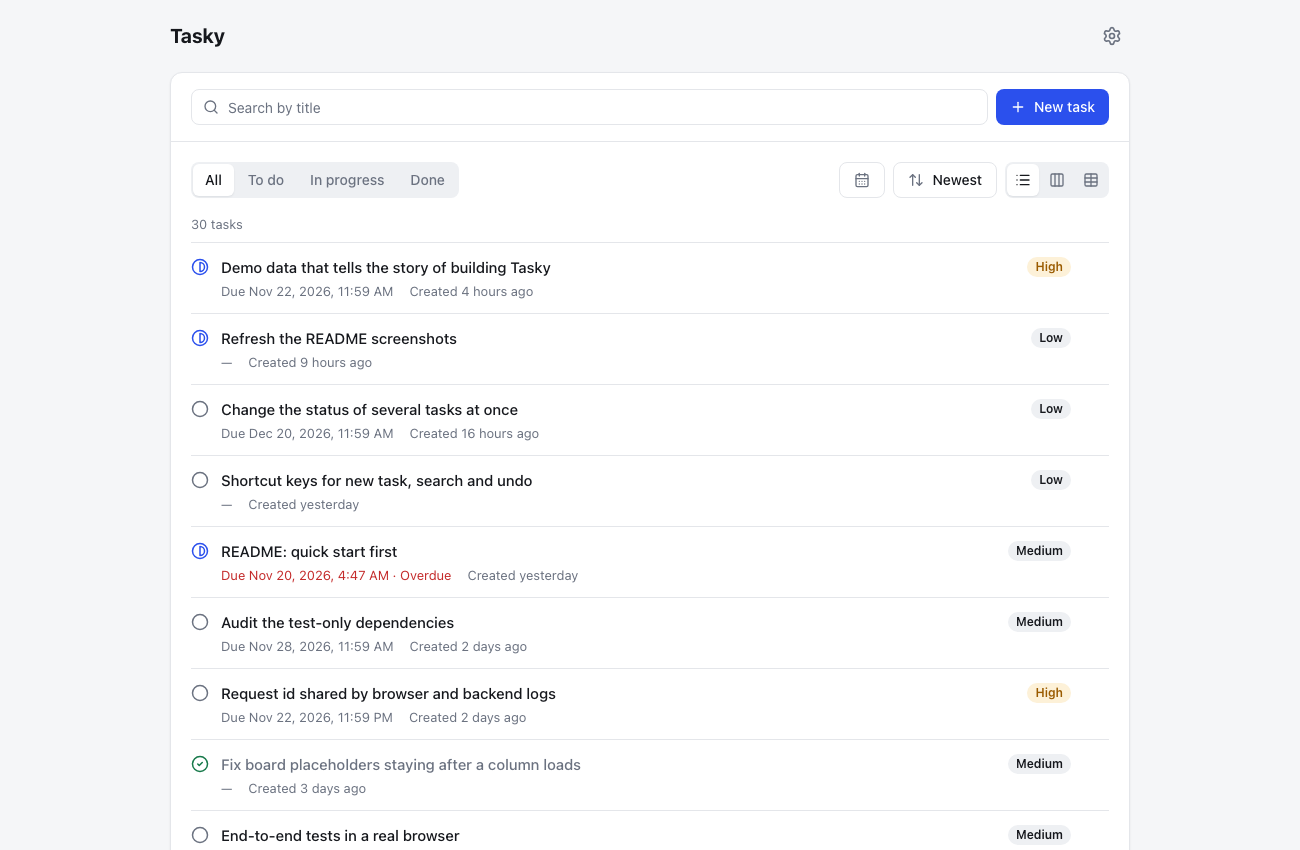
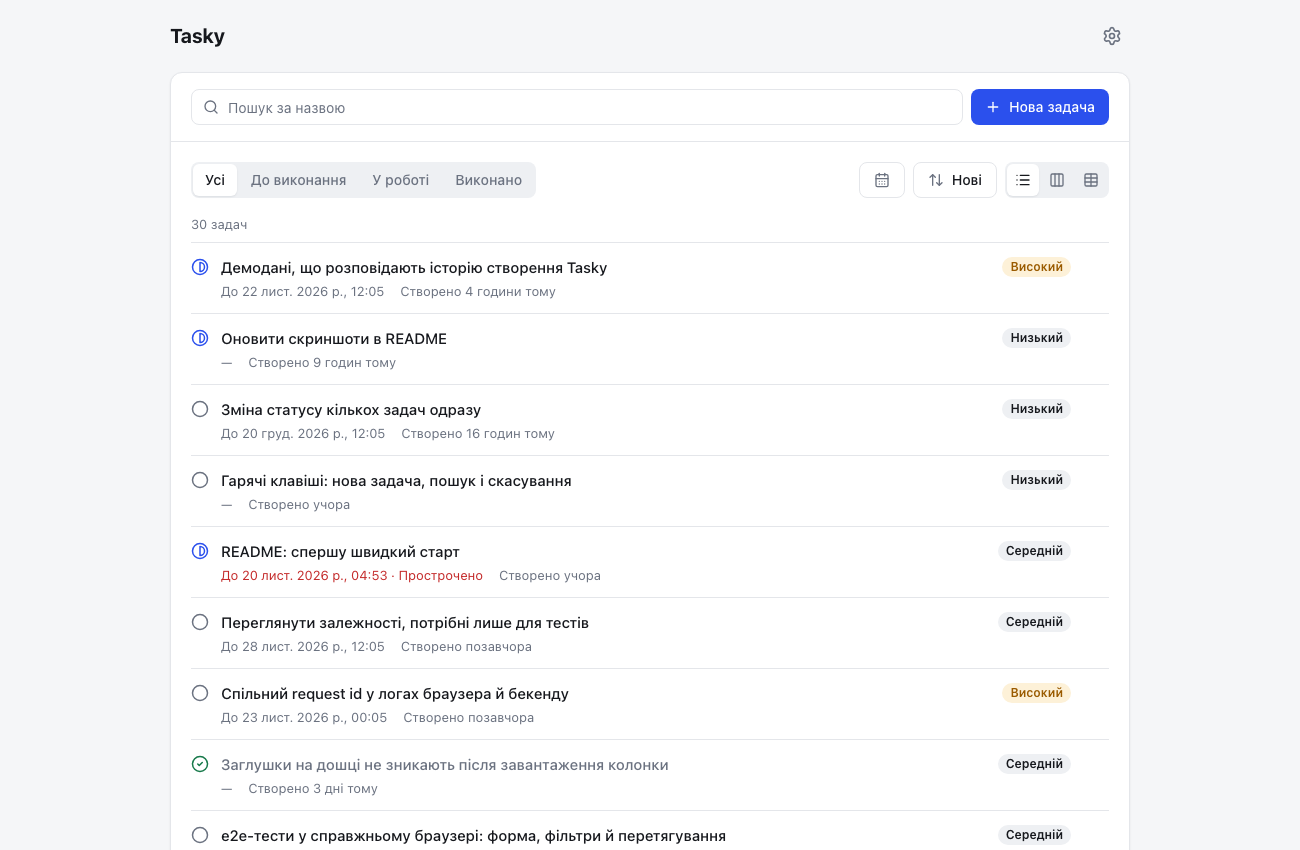
Demo data in Ukrainian: the same 30 tasks from the project's history, with the same statuses, priorities, deadlines, creation dates, board order and missing descriptions, titled and described the way a Ukrainian developer writes issues; five titles mention filters, so «фільтр» is now the search exam

diff --git a/backend/app/services/demo_seed.py b/backend/app/services/demo_seed.py
@@ -1,10 +1,10 @@
-"""Demo tasks for a fresh install: the story of building Tasky itself.
+"""Demo tasks for a fresh install, in Ukrainian: the story of building Tasky itself.
 
 The shipped work of the backend and frontend milestones is done, the current work is in
 progress and a few plausible next steps are to do. Deadlines are overdue, due within a few
 days, further out or missing; creation dates follow the order the work happened over the last
-three weeks. Five titles share the word "board" so a search finds more than one. All dates are
-relative to the seed time.
+three weeks. Five titles mention filters («фільтр», «фільтри») so a search for «фільтр» finds
+more than one. All dates are relative to the seed time.
 """
 
 import logging
@@ -45,172 +45,173 @@ def _days(days: float) -> timedelta:
 DEMO_TASKS: tuple[DemoTask, ...] = (
     # In progress
     DemoTask(
-        "Refactor: shared task title and deadline pieces",
-        "Pull the title, deadline badge, form submit and task actions out of the list, board "
-        "and table components, so the three views stop drifting apart.",
+        "Рефакторинг: спільні компоненти назви й дедлайну задачі",
+        "Винести назву, бейдж дедлайну, збереження форми й дії із задачею зі списку, дошки "
+        "й таблиці, щоб три вигляди не розходилися.",
         IN_PROGRESS, HIGH, _days(6.6), _days(1.5),
     ),
     DemoTask(
-        "Demo data that tells the story of building Tasky",
-        "Replace the placeholder seed with the project's own work items, so a fresh install "
-        "reads like a real board.",
+        "Демодані, що розповідають історію створення Tasky",
+        "Замінити заглушки в демоданих справжніми задачами проєкту, щоб після чистого "
+        "встановлення дошка виглядала живою.",
         IN_PROGRESS, HIGH, _days(0.2), _days(2),
     ),
     DemoTask(
-        "README: quick start first",
-        "Clone and one command at the top; configuration, development and the API reference "
-        "below it.",
+        "README: спершу швидкий старт",
+        "Угорі клонування й одна команда; конфігурація, розробка й довідник API нижче.",
         IN_PROGRESS, MEDIUM, _days(1.6), _days(-0.3),
     ),
     DemoTask(
-        "Refresh the README screenshots",
+        "Оновити скриншоти в README",
         None,
         IN_PROGRESS, LOW, _days(0.4), None,
     ),
     # To do
     DemoTask(
-        "CI: frontend check and backend tests on every pull request",
-        "GitHub Actions running `npm run check` and the backend suite against PostgreSQL, "
-        "required before merge.",
+        "CI: перевірка фронтенду й тести бекенду на кожен pull request",
+        "GitHub Actions запускає `npm run check` і тести бекенду на PostgreSQL; без зеленого "
+        "прогону злиття заблоковане.",
         TODO, HIGH, _days(8.1), _days(-2),
     ),
     DemoTask(
-        "Request id shared by browser and backend logs",
-        "Send an X-Request-ID from the client and log it on both sides, so one failed save "
-        "can be followed end to end.",
+        "Спільний request id у логах браузера й бекенду",
+        "Клієнт надсилає X-Request-ID, і обидві сторони пишуть його в логи, тож одне невдале "
+        "збереження можна простежити від початку до кінця.",
         TODO, HIGH, _days(2.8), _days(2.5),
     ),
     DemoTask(
-        "Rebalance positions when custom order gaps run out",
-        "Dragging between the same two tasks halves the gap each time; renumber the column "
-        "before floats lose precision.",
+        "Перенумерація позицій, коли у власному порядку закінчуються проміжки",
+        "Кожне перетягування між тими самими двома задачами вдвічі зменшує проміжок; колонку "
+        "треба перенумерувати, поки float не втратив точність.",
         TODO, MEDIUM, _days(5.2), _days(-1),
     ),
     DemoTask(
-        "Audit the test-only dependencies",
-        "Check what the frontend and backend dev dependencies pull in and drop what the "
-        "suites no longer use.",
+        "Переглянути залежності, потрібні лише для тестів",
+        "Перевірити, що тягнуть за собою dev-залежності фронтенду й бекенду, і прибрати те, "
+        "чим тести вже не користуються.",
         TODO, MEDIUM, _days(2.1), _days(8),
     ),
     DemoTask(
-        "End-to-end tests in a real browser",
-        "A few Playwright runs against the Compose stack: create, edit, filter and drag a task.",
+        "e2e-тести у справжньому браузері: форма, фільтри й перетягування",
+        "Кілька прогонів Playwright на стеку Compose: створити, відредагувати, відфільтрувати "
+        "й перетягнути задачу.",
         TODO, MEDIUM, _days(3.9), _days(14),
     ),
     DemoTask(
-        "Shortcut keys for new task, search and undo",
-        "N opens the form, / focuses the search, Ctrl+Z undoes the last change.",
+        "Гарячі клавіші: нова задача, пошук і скасування",
+        "N відкриває форму, / ставить курсор у пошук, Ctrl+Z скасовує останню зміну.",
         TODO, LOW, _days(1.1), None,
     ),
     DemoTask(
-        "Change the status of several tasks at once",
+        "Зміна статусу кількох задач одразу",
         None,
         TODO, LOW, _days(0.7), _days(30),
     ),
     # Done, latest first
     DemoTask(
-        "Fix board placeholders staying after a column loads",
-        "The loading cards sat inside the cards' transition group, and their pulse animation "
-        "kept the leave transition from ever finishing.",
+        "Заглушки на дошці не зникають після завантаження колонки",
+        "Картки-заглушки сиділи всередині transition group карток, і їхня pulse-анімація не "
+        "давала leave-переходу завершитися.",
         DONE, MEDIUM, _days(3.4), None,
     ),
     DemoTask(
-        "Change priority from the list, board and table",
-        "A priority menu on every task, in all three views.",
+        "Зміна пріоритету зі списку, дошки й таблиці",
+        "Меню пріоритету на кожній задачі в усіх трьох виглядах.",
         DONE, LOW, _days(4.6), None,
     ),
     DemoTask(
-        "Custom order: drag cards on the board and rows in the table",
-        "A position per task, a move endpoint that places a task between two others, and "
-        "Move up / Move down for the keyboard.",
+        "Власний порядок: перетягування карток на дошці й рядків у таблиці",
+        "Позиція в кожної задачі, ендпоінт переміщення, що ставить задачу між двома іншими, "
+        "і «Перемістити вище» / «Перемістити нижче» для клавіатури.",
         DONE, HIGH, _days(5.8), _days(-4),
     ),
     DemoTask(
-        "Review fixes: deadline filter, board and accessibility",
-        "Fixes from a review pass over the deadline filter, the board, the form and keyboard "
-        "and screen reader use.",
+        "Правки після рев’ю: фільтр дедлайнів, дошка й доступність",
+        "Виправлення за результатами рев’ю фільтра дедлайнів, дошки, форми, роботи з "
+        "клавіатури та зі скринрідером.",
         DONE, MEDIUM, _days(7.4), _days(-5),
     ),
     DemoTask(
-        "Task views: list, kanban board and table",
-        "Three views of the same filtered tasks, with density and description settings.",
+        "Вигляди задач: список, канбан-дошка й таблиця",
+        "Три вигляди тих самих відфільтрованих задач із налаштуваннями щільності й описів.",
         DONE, HIGH, _days(8.7), _days(-6),
     ),
     DemoTask(
-        "Filter tasks by deadline: exact day or range",
-        "A date picker for one day or a range, sent as deadline_from and deadline_to.",
+        "Фільтр задач за дедлайном: один день або діапазон",
+        "Календар для одного дня чи діапазону, на сервер іде як deadline_from і deadline_to.",
         DONE, MEDIUM, _days(9.6), _days(-7),
     ),
     DemoTask(
-        "Delete a task and change its status from the row",
+        "Видалення задачі й зміна статусу просто з рядка",
         None,
         DONE, MEDIUM, _days(11.4), _days(-9),
     ),
     DemoTask(
-        "Create and edit form with an undo toast",
-        "One dialog for both, validated like the API; every create, edit and status change can "
-        "be undone for a few seconds.",
+        "Форма створення й редагування з тостом для скасування",
+        "Один діалог для обох дій із тією самою валідацією, що й в API; будь-яке створення, "
+        "редагування чи зміну статусу можна скасувати протягом кількох секунд.",
         DONE, HIGH, _days(12.2), _days(-9),
     ),
     DemoTask(
-        "Search, status filter and sorting toolbar",
-        "Search waits for a pause in typing; the whole view lives in the address, so a reload "
-        "shows the same tasks.",
+        "Панель інструментів: пошук, фільтр за статусом і сортування",
+        "Пошук чекає паузи в наборі; увесь стан вигляду живе в адресі, тож після "
+        "перезавантаження видно ті самі задачі.",
         DONE, HIGH, _days(13.1), _days(-10),
     ),
     DemoTask(
-        "Settings: theme, tasks per page, Ukrainian and English",
-        "Kept in local storage, applied without a reload.",
+        "Налаштування: тема, кількість задач на сторінці, українська й англійська",
+        "Зберігаються в local storage і застосовуються без перезавантаження.",
         DONE, MEDIUM, _days(13.9), _days(-11),
     ),
     DemoTask(
-        "Task list with pagination",
-        "Twenty tasks a page by default, with the page kept in the address.",
+        "Список задач із пагінацією",
+        "Типово двадцять задач на сторінці, номер сторінки зберігається в адресі.",
         DONE, HIGH, _days(14.6), _days(-12),
     ),
     DemoTask(
-        "Frontend foundation: generated API client, design tokens and app shell",
-        "orval builds the client from the exported spec; Tailwind tokens and reka-ui give the "
-        "light and dark themes.",
+        "Основа фронтенду: згенерований API-клієнт, дизайн-токени й каркас застосунку",
+        "orval генерує клієнт з експортованої специфікації; токени Tailwind і reka-ui дають "
+        "світлу й темну теми.",
         DONE, HIGH, _days(15.4), _days(-13),
     ),
     DemoTask(
-        "Demo data seed for a fresh install",
+        "Демодані для чистого встановлення",
         None,
         DONE, LOW, _days(16.5), None,
     ),
     DemoTask(
-        "Backend test suite with 100% coverage",
-        "Integration tests against a real PostgreSQL; the run fails if coverage drops.",
+        "Тести бекенду зі 100% покриттям",
+        "Інтеграційні тести на справжньому PostgreSQL; прогін падає, якщо покриття знижується.",
         DONE, MEDIUM, _days(17.2), _days(-15),
     ),
     DemoTask(
-        "OpenAPI docs with request and response examples",
-        "Every endpoint, parameter and error described in Swagger UI and ReDoc, and the spec "
-        "exported for the client.",
+        "Документація OpenAPI з прикладами запитів і відповідей",
+        "Кожен ендпоінт, параметр і помилка описані в Swagger UI та ReDoc, а специфікація "
+        "експортується для клієнта.",
         DONE, MEDIUM, _days(17.8), _days(-15),
     ),
     DemoTask(
-        "Task list filters: status, title search, sorting and pagination",
-        "Search is case-insensitive and treats % and _ literally; deleted tasks never appear.",
+        "Фільтри списку задач: статус, пошук за назвою, сортування й пагінація",
+        "Пошук не зважає на регістр, а % і _ сприймає буквально; видалені задачі не "
+        "показуються ніколи.",
         DONE, HIGH, _days(19.3), _days(-17),
     ),
     DemoTask(
-        "Tasks API: schemas, validation and CRUD with soft delete",
-        "Pydantic models for create, update and read, consistent error responses, and deleted "
-        "tasks kept with a timestamp.",
+        "API задач: схеми, валідація й CRUD із м’яким видаленням",
+        "Моделі Pydantic для створення, оновлення й читання, однаковий формат помилок, а "
+        "видалені задачі лишаються в базі з позначкою часу.",
         DONE, HIGH, _days(20.1), _days(-18),
     ),
     DemoTask(
-        "FastAPI app skeleton and database layer",
-        "Settings from the environment, a health endpoint, async SQLAlchemy with Alembic and "
-        "the first Task migration.",
+        "Каркас застосунку на FastAPI і шар бази даних",
+        "Налаштування із середовища, ендпоінт health, асинхронний SQLAlchemy з Alembic і "
+        "перша міграція Task.",
         DONE, HIGH, _days(21.0), _days(-19),
     ),
     DemoTask(
-        "Docker Compose setup: database, backend and frontend in one command",
-        "PostgreSQL, the API and the web app start with `docker compose up`; health checks "
-        "decide the start order.",
+        "Docker Compose: база даних, бекенд і фронтенд однією командою",
+        "PostgreSQL, API й вебзастосунок стартують через `docker compose up`; порядок запуску "
+        "визначають health checks.",
         DONE, HIGH, _days(21.6), _days(-20.5),
     ),
 )

diff --git a/backend/tests/integration/test_seed.py b/backend/tests/integration/test_seed.py
@@ -222,12 +222,15 @@ async def test_seeded_shipped_work_was_created_before_the_current_work(
 
 
 @pytest.mark.anyio
-async def test_searching_board_finds_the_five_board_tasks(
+async def test_searching_a_word_stem_finds_every_form_of_it_in_any_case(
     seeded: datetime, client: httpx.AsyncClient
 ) -> None:
-    body = (await client.get(TASKS, params={"search": "board"})).json()
+    body = (await client.get(TASKS, params={"search": "фільтр", "page_size": 100})).json()
 
+    titles = [task["title"] for task in body["items"]]
     assert body["total"] == 5
+    assert any(title.startswith("Фільтри ") for title in titles)
+    assert any(" фільтр " in title for title in titles)
 
 
 @pytest.mark.anyio

diff --git a/backend/app/schemas/task.py b/backend/app/schemas/task.py
@@ -78,7 +78,7 @@ class TaskListQuery(BaseModel):
     search: Text | None = Field(
         default=None,
         description="Only tasks whose title contains this text, ignoring case.",
-        examples=["board"],
+        examples=["фільтр"],
         json_schema_extra=_without_null,
     )
     deadline_from: Deadline | None = Field(

diff --git a/README.md b/README.md
@@ -69,7 +69,7 @@ The address wins over local storage. Invalid values in either are replaced with 
 
 ### Demo data
 
-On first start the backend loads 30 demo tasks: the story of building Tasky itself. The shipped backend and frontend work is done, the current work is in progress and a few next steps are to do, with mixed priorities, overdue, upcoming and missing deadlines, and creation dates spread over the last three weeks in the order the work happened. Five titles mention the board, so searching `board` shows the search at work. They are loaded only into a tasks table with no rows at all (soft-deleted tasks count), so restarts add nothing and your changes are kept.
+On first start the backend loads 30 demo tasks in Ukrainian: the story of building Tasky itself. The shipped backend and frontend work is done, the current work is in progress and a few next steps are to do, with mixed priorities, overdue, upcoming and missing deadlines, and creation dates spread over the last three weeks in the order the work happened. Five titles mention filters (`фільтр`, `фільтри`), so searching `фільтр` shows the search at work. They are loaded only into a tasks table with no rows at all (soft-deleted tasks count), so restarts add nothing and your changes are kept.
 
 - Start with an empty database: set `SEED_DEMO_DATA=false` before the first start.
 - Replace all tasks with a fresh demo set at any time: `docker compose exec backend python -m app.seed --reset`.
@@ -186,7 +186,7 @@ Query parameters for `GET /tasks`:
 | Param       | Example       | Description                                                                                        |
 | ----------- | ------------- | -------------------------------------------------------------------------------------------------- |
 | `status`    | `in_progress` | filter by status                                                                                   |
-| `search`    | `board`       | case-insensitive substring of the title; `%` and `_` match literally                               |
+| `search`    | `фільтр`      | case-insensitive substring of the title; `%` and `_` match literally                               |
 | `ordering`  | `-created_at` | `created_at` or `deadline`, prefix `-` for descending; default `-created_at`; no deadline sorts last; `position` is the custom order (ascending, ties newest first) |
 | `page`      | `1`           | page number, starting at 1 (default 1)                                                             |
 | `page_size` | `20`          | items per page, 1–100 (default 20)                                                                 |
